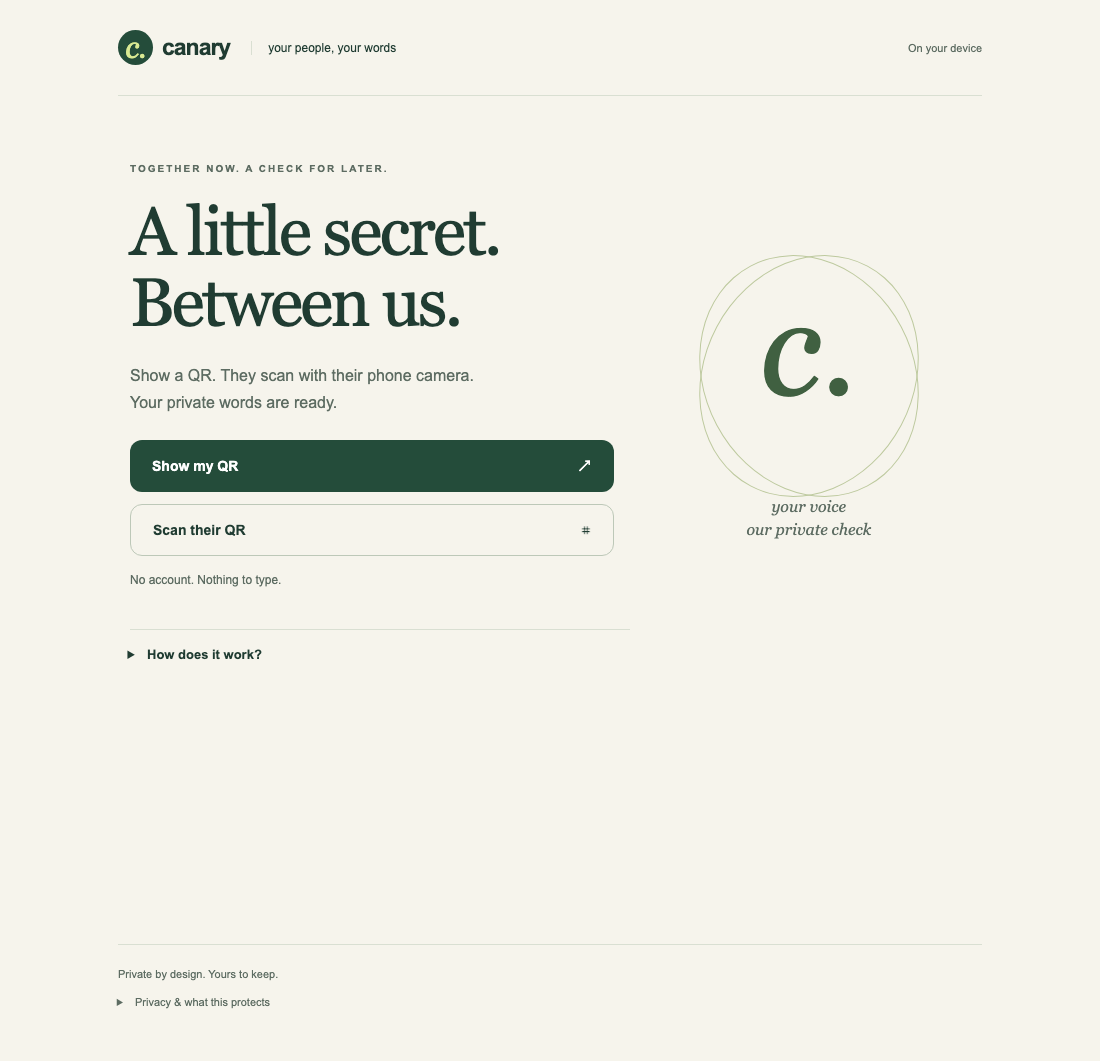
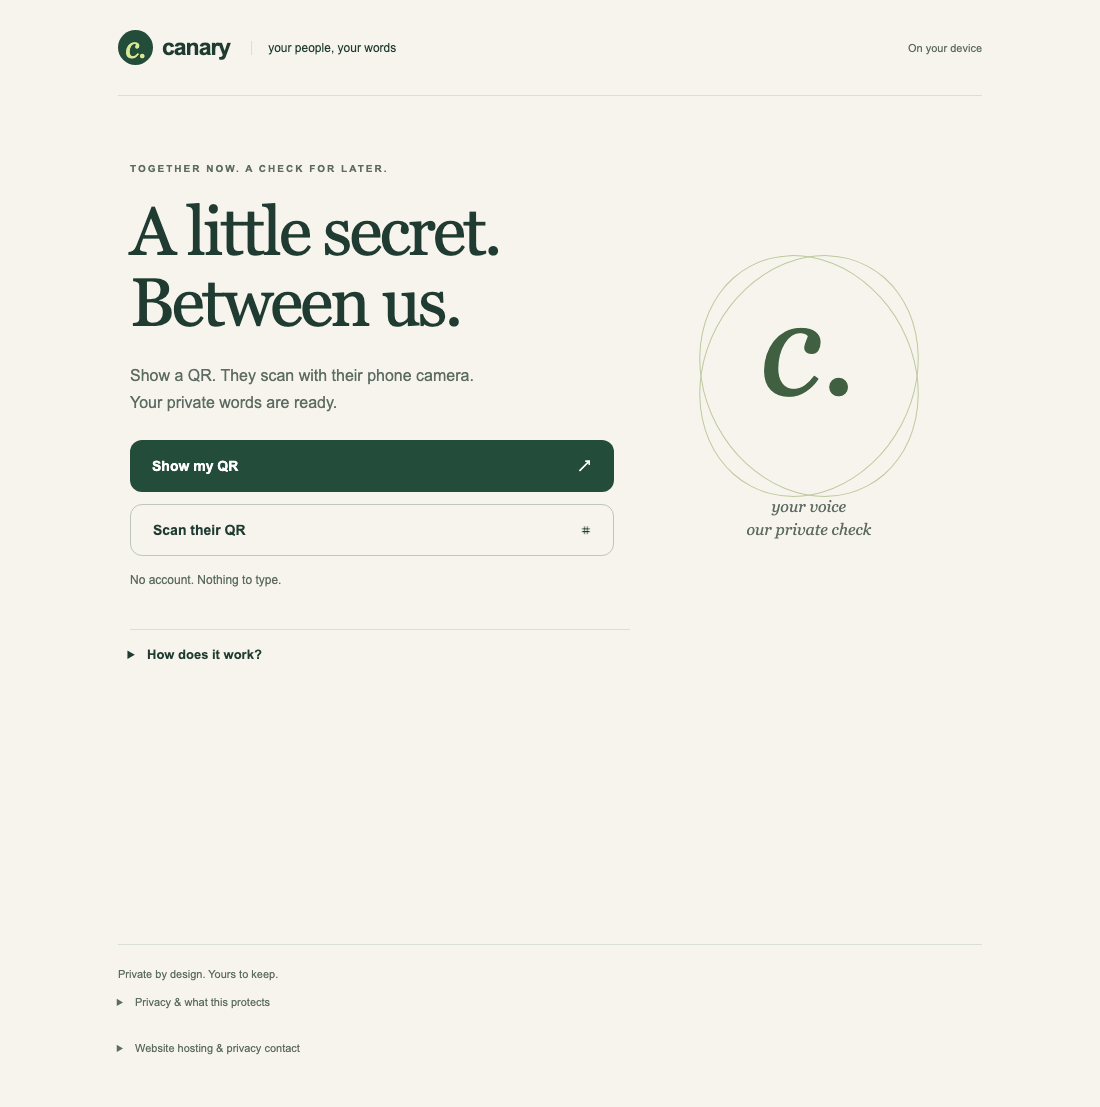
Add the adopted static-host privacy facts and contact route

diff --git a/local/index.html b/local/index.html
@@ -56,7 +56,7 @@
       <input type="file" id="restore-file" accept="application/json,.json" hidden>
       <p id="error" role="alert" hidden></p><p id="status" role="status" class="small"></p><noscript>Canary needs JavaScript for local encryption and rotating words.</noscript>
     </main>
-    <footer><span>Private by design. Yours to keep.</span><details><summary>Privacy &amp; what this protects</summary><p>Pairing works in memory, without a vault. Unsaved pairs are cleared when you leave the tab or after five minutes without interaction. Keep on this phone saves nicknames and pair secrets encrypted in this browser. No account, analytics, message service, relay, location access or microphone is used.</p><p>On an HTTPS site, the QR is a private setup link that a normal phone camera can open. Its secret is after #, outside the request sent to the host. Canary removes it from the current address and consumes it in memory before showing your words. Camera software, browser history sync or extensions could still keep a copy; no one-time use or revocation is promised. Keep it private. In-app QR scanning uses your camera only when you ask. Frames are decoded on this phone, are not recorded or uploaded, and capture stops when you finish, cancel or leave. The QR contains a shared secret: keep it private.</p><p>Device unlock requires supported encryption-key functionality from your browser and passkey provider; otherwise use a passphrase to save. Your provider may sync its credentials under your platform settings. We do not receive the passkey or unlock key. Device-only vaults have no passphrase recovery until you add it in Recovery &amp; device unlock. Encrypted backups require that recovery passphrase. Losing device unlock or browser data without a backup can lose your pairs.</p><p>Encryption protects a locked vault or a stolen backup. It cannot protect an unlocked compromised phone, malicious browser extensions, screen capture, a tampered website or a live relay. Only use a trusted address or copy. Both holders can derive either side’s words. If a secret is exposed, pair again privately; removing a local entry does not revoke the other person’s copy.</p><p>This does not certify identity, safety or a past meeting. Duress needs an agreed human response; no emergency service is provided. This version has local checks, not an independent security audit. A hosted copy also exposes ordinary connection data to its web host; hosting privacy facts must be verified before publication.</p></details></footer>
+    <footer><span>Private by design. Yours to keep.</span><details><summary>Privacy &amp; what this protects</summary><p>Pairing works in memory, without a vault. Unsaved pairs are cleared when you leave the tab or after five minutes without interaction. Keep on this phone saves nicknames and pair secrets encrypted in this browser. No account, analytics, message service, relay, location access or microphone is used.</p><p>On an HTTPS site, the QR is a private setup link that a normal phone camera can open. Its secret is after #, outside the request sent to the host. Canary removes it from the current address and consumes it in memory before showing your words. Camera software, browser history sync or extensions could still keep a copy; no one-time use or revocation is promised. Keep it private. In-app QR scanning uses your camera only when you ask. Frames are decoded on this phone, are not recorded or uploaded, and capture stops when you finish, cancel or leave. The QR contains a shared secret: keep it private.</p><p>Device unlock requires supported encryption-key functionality from your browser and passkey provider; otherwise use a passphrase to save. Your provider may sync its credentials under your platform settings. We do not receive the passkey or unlock key. Device-only vaults have no passphrase recovery until you add it in Recovery &amp; device unlock. Encrypted backups require that recovery passphrase. Losing device unlock or browser data without a backup can lose your pairs.</p><p>Encryption protects a locked vault or a stolen backup. It cannot protect an unlocked compromised phone, malicious browser extensions, screen capture, a tampered website or a live relay. Only use a trusted address or copy. Both holders can derive either side’s words. If a secret is exposed, pair again privately; removing a local entry does not revoke the other person’s copy.</p><p>This does not certify identity, safety or a past meeting. Duress needs an agreed human response; no emergency service is provided. This version has local checks, not an independent security audit. A hosted copy exposes ordinary connection data to its web host; see the hosting notice below.</p></details><details id="hosting-privacy"><summary>Website hosting &amp; privacy contact</summary><p>This website is published by the Canary Kit project (ForgeSworn). Privacy questions, complaints and rights requests can be sent privately to the project maintainers through <a href="https://github.com/forgesworn/canary-kit/security/advisories/new" rel="noreferrer">GitHub’s private report route</a>. That separate service requires a GitHub account. Never include setup links, live words or passphrases in a report.</p><p>The HTTPS copy is hosted by OpenAI Sites. The host processes connection/request metadata, such as IP and device information, and automatically counts visits and page views. The purpose is to deliver, secure and operate this static page, including aggregate traffic statistics, on the basis of legitimate interests. Canary adds no advertising, tracking SDK or message backend. Pair secrets, names and vault passphrases are processed locally by the app; they are not included in its server requests.</p><p>Hosting data is processed by OpenAI and its service providers under the applicable <a href="https://openai.com/en-GB/policies/chatgpt-sites-data-processing-addendum/" rel="noreferrer">hosting data terms</a>. Retention follows the service term and time needed to complete applicable obligations, including deletion; we do not promise a fixed log lifetime or UK-only storage. The applicable terms describe transfer safeguards, including UK provisions.</p><p>You may request access, correction, deletion, restriction, objection or portability where applicable, and complain to the <a href="https://ico.org.uk/make-a-complaint/" rel="noreferrer">Information Commissioner’s Office</a>. The publisher has no remote pair vault to retrieve or erase. Your browser, camera and passkey providers have their own settings and privacy terms. Updated 23 October 2026.</p></details></footer>
   </div>
   <script type="module" src="./main.ts"></script>
 </body>

diff --git a/canary-local.html b/canary-local.html
@@ -2109,7 +2109,7 @@ zoo`.split(`
       <input type="file" id="restore-file" accept="application/json,.json" hidden>
       <p id="error" role="alert" hidden></p><p id="status" role="status" class="small"></p><noscript>Canary needs JavaScript for local encryption and rotating words.</noscript>
     </main>
-    <footer><span>Private by design. Yours to keep.</span><details><summary>Privacy &amp; what this protects</summary><p>Pairing works in memory, without a vault. Unsaved pairs are cleared when you leave the tab or after five minutes without interaction. Keep on this phone saves nicknames and pair secrets encrypted in this browser. No account, analytics, message service, relay, location access or microphone is used.</p><p>On an HTTPS site, the QR is a private setup link that a normal phone camera can open. Its secret is after #, outside the request sent to the host. Canary removes it from the current address and consumes it in memory before showing your words. Camera software, browser history sync or extensions could still keep a copy; no one-time use or revocation is promised. Keep it private. In-app QR scanning uses your camera only when you ask. Frames are decoded on this phone, are not recorded or uploaded, and capture stops when you finish, cancel or leave. The QR contains a shared secret: keep it private.</p><p>Device unlock requires supported encryption-key functionality from your browser and passkey provider; otherwise use a passphrase to save. Your provider may sync its credentials under your platform settings. We do not receive the passkey or unlock key. Device-only vaults have no passphrase recovery until you add it in Recovery &amp; device unlock. Encrypted backups require that recovery passphrase. Losing device unlock or browser data without a backup can lose your pairs.</p><p>Encryption protects a locked vault or a stolen backup. It cannot protect an unlocked compromised phone, malicious browser extensions, screen capture, a tampered website or a live relay. Only use a trusted address or copy. Both holders can derive either side’s words. If a secret is exposed, pair again privately; removing a local entry does not revoke the other person’s copy.</p><p>This does not certify identity, safety or a past meeting. Duress needs an agreed human response; no emergency service is provided. This version has local checks, not an independent security audit. A hosted copy also exposes ordinary connection data to its web host; hosting privacy facts must be verified before publication.</p></details></footer>
+    <footer><span>Private by design. Yours to keep.</span><details><summary>Privacy &amp; what this protects</summary><p>Pairing works in memory, without a vault. Unsaved pairs are cleared when you leave the tab or after five minutes without interaction. Keep on this phone saves nicknames and pair secrets encrypted in this browser. No account, analytics, message service, relay, location access or microphone is used.</p><p>On an HTTPS site, the QR is a private setup link that a normal phone camera can open. Its secret is after #, outside the request sent to the host. Canary removes it from the current address and consumes it in memory before showing your words. Camera software, browser history sync or extensions could still keep a copy; no one-time use or revocation is promised. Keep it private. In-app QR scanning uses your camera only when you ask. Frames are decoded on this phone, are not recorded or uploaded, and capture stops when you finish, cancel or leave. The QR contains a shared secret: keep it private.</p><p>Device unlock requires supported encryption-key functionality from your browser and passkey provider; otherwise use a passphrase to save. Your provider may sync its credentials under your platform settings. We do not receive the passkey or unlock key. Device-only vaults have no passphrase recovery until you add it in Recovery &amp; device unlock. Encrypted backups require that recovery passphrase. Losing device unlock or browser data without a backup can lose your pairs.</p><p>Encryption protects a locked vault or a stolen backup. It cannot protect an unlocked compromised phone, malicious browser extensions, screen capture, a tampered website or a live relay. Only use a trusted address or copy. Both holders can derive either side’s words. If a secret is exposed, pair again privately; removing a local entry does not revoke the other person’s copy.</p><p>This does not certify identity, safety or a past meeting. Duress needs an agreed human response; no emergency service is provided. This version has local checks, not an independent security audit. A hosted copy exposes ordinary connection data to its web host; see the hosting notice below.</p></details><details id="hosting-privacy"><summary>Website hosting &amp; privacy contact</summary><p>This website is published by the Canary Kit project (ForgeSworn). Privacy questions, complaints and rights requests can be sent privately to the project maintainers through <a href="https://github.com/forgesworn/canary-kit/security/advisories/new" rel="noreferrer">GitHub’s private report route</a>. That separate service requires a GitHub account. Never include setup links, live words or passphrases in a report.</p><p>The HTTPS copy is hosted by OpenAI Sites. The host processes connection/request metadata, such as IP and device information, and automatically counts visits and page views. The purpose is to deliver, secure and operate this static page, including aggregate traffic statistics, on the basis of legitimate interests. Canary adds no advertising, tracking SDK or message backend. Pair secrets, names and vault passphrases are processed locally by the app; they are not included in its server requests.</p><p>Hosting data is processed by OpenAI and its service providers under the applicable <a href="https://openai.com/en-GB/policies/chatgpt-sites-data-processing-addendum/" rel="noreferrer">hosting data terms</a>. Retention follows the service term and time needed to complete applicable obligations, including deletion; we do not promise a fixed log lifetime or UK-only storage. The applicable terms describe transfer safeguards, including UK provisions.</p><p>You may request access, correction, deletion, restriction, objection or portability where applicable, and complain to the <a href="https://ico.org.uk/make-a-complaint/" rel="noreferrer">Information Commissioner’s Office</a>. The publisher has no remote pair vault to retrieve or erase. Your browser, camera and passkey providers have their own settings and privacy terms. Updated 23 October 2026.</p></details></footer>
   </div>
 <!--
 Bundled software notices

diff --git a/SECURITY.md b/SECURITY.md
@@ -18,6 +18,14 @@
 
 **Do not** report security vulnerabilities through public GitHub issues, pull requests, or any other public channel.
 
+### Local website and privacy enquiries
+
+The separate `local/` website and its published static copy are included in the
+project's private reporting route. Privacy questions, complaints and rights
+requests may also be sent privately through that route. It requires a GitHub
+account. Do not include setup links, pair words, vault passphrases or other
+people's personal data in an initial report. The app has no remote pair vault.
+
 ### What to Include
 
 - Description of the vulnerability
